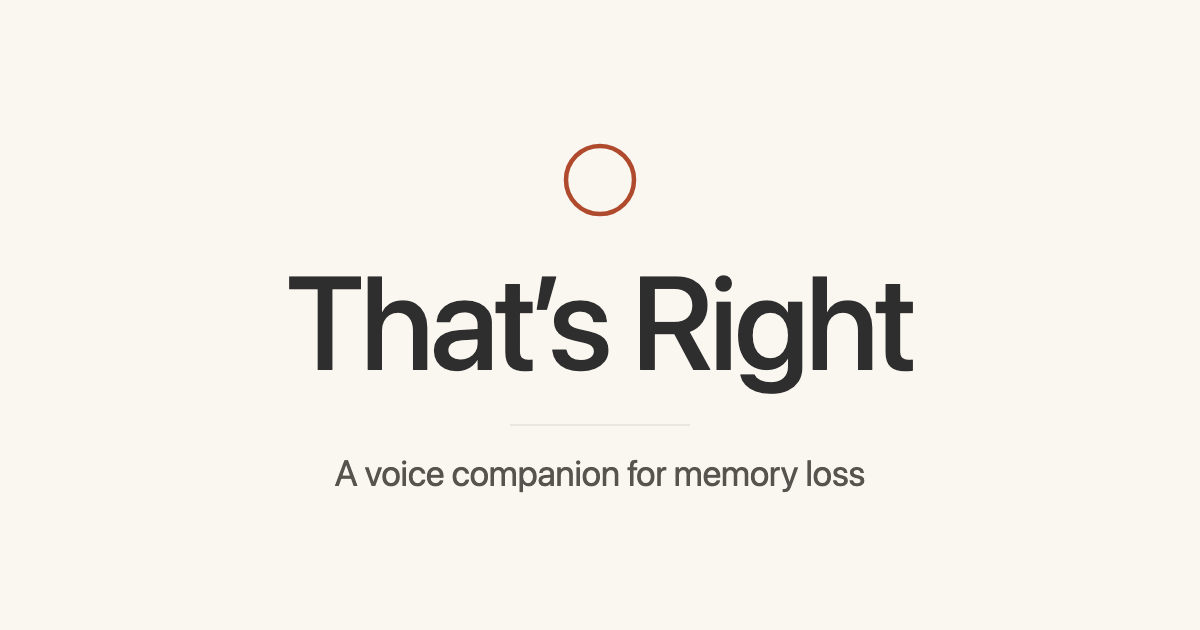
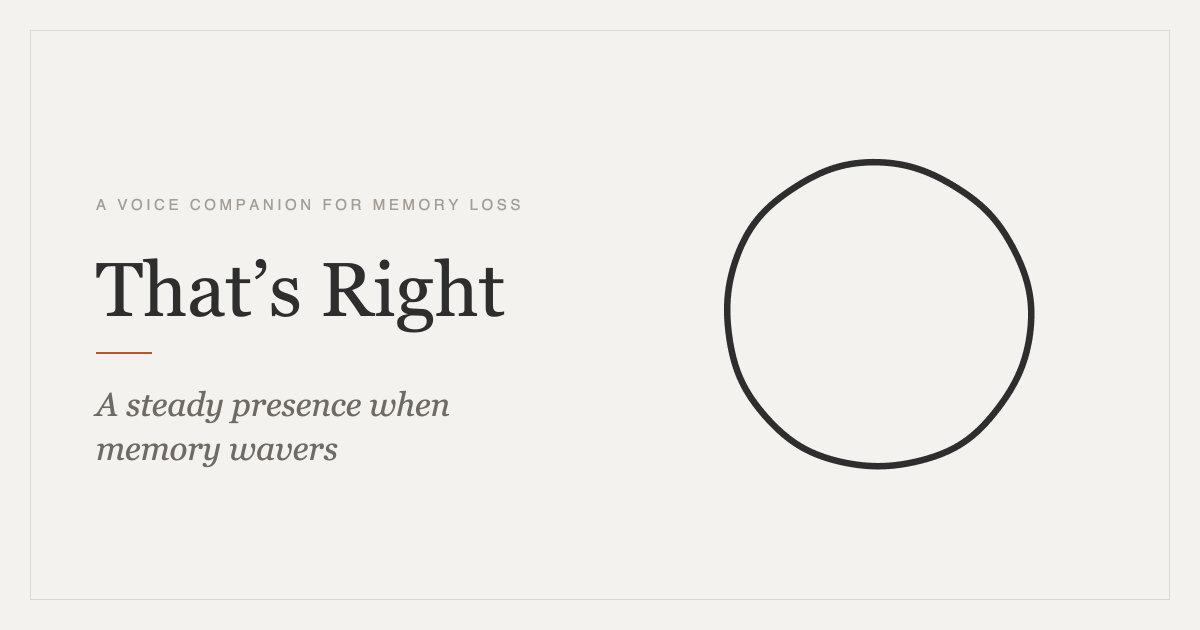
seo: swap OG card to cream variant + keep dark backup
OG/Twitter title and image:alt: "A voice companion for memory loss"
→ "A steady presence when memory wavers". The new line lands closer to
what the page itself sells (presence, steadiness) than a category label
and matches the new card's headline.

og.png: replace with the cream paper variant — eyebrow tagline above
the wordmark, accent rule, hero orb outline on the right. Matches the
site brand exactly so the share-card → landing-page transition feels
continuous. The previous card was a draft in the working tree from a
prior session, never shipped.

og-dark.png: NEW. Same composition on a charcoal background, no
eyebrow. Kept in the repo as a backup so it survives Downloads cleanup
and is one rename away if we ever want the dark card. Not referenced
by any HTML, just sits at root.

og.png URL bumped to ?v=2 in OG/Twitter image meta so Slack, iMessage,
Twitter and LinkedIn re-fetch the new image instead of serving their
cached preview of the old one.

TODO.md: mark the "verify Vercel deploy" SEO follow-up done (all five
static assets returned 200 on prod earlier this session) and note the
cream/dark variant convention.

diff --git a/index.html b/index.html
@@ -15,21 +15,21 @@
 <!-- Open Graph (Facebook / LinkedIn / iMessage / Slack share previews) -->
 <meta property="og:type" content="website">
 <meta property="og:site_name" content="That’s Right">
-<meta property="og:title" content="That’s Right — a voice companion for memory loss">
+<meta property="og:title" content="That’s Right — A steady presence when memory wavers">
 <meta property="og:description" content="A voice your parent can talk to anytime — one that knows their life, and tells you each evening how their day really went.">
 <meta property="og:url" content="https://www.thatsright.xyz/">
 <meta property="og:locale" content="en_US">
 <meta property="og:locale:alternate" content="fr_FR">
-<meta property="og:image" content="https://www.thatsright.xyz/og.png">
+<meta property="og:image" content="https://www.thatsright.xyz/og.png?v=2">
 <meta property="og:image:width" content="1200">
 <meta property="og:image:height" content="630">
-<meta property="og:image:alt" content="That’s Right — a voice companion for memory loss">
+<meta property="og:image:alt" content="That’s Right — A steady presence when memory wavers">
 
 <!-- Twitter / X -->
 <meta name="twitter:card" content="summary_large_image">
-<meta name="twitter:title" content="That’s Right — a voice companion for memory loss">
+<meta name="twitter:title" content="That’s Right — A steady presence when memory wavers">
 <meta name="twitter:description" content="A voice your parent can talk to anytime — one that knows their life, and tells you each evening how their day really went.">
-<meta name="twitter:image" content="https://www.thatsright.xyz/og.png">
+<meta name="twitter:image" content="https://www.thatsright.xyz/og.png?v=2">
 
 <!-- Structured data: how Google’s rich results + LLMs (Perplexity, ChatGPT, Claude) recognise this site. -->
 <script type="application/ld+json">

diff --git a/TODO.md b/TODO.md
@@ -20,8 +20,14 @@ Tracked here so they don't get lost across sessions.
 
 ## SEO follow-ups (post-deploy)
 
-- [ ] Push `bff0bde` to `origin/main`; verify Vercel deploys and
-      `https://www.thatsright.xyz/og.png` returns 200.
+- [x] ~~Push `bff0bde` to `origin/main`; verify Vercel deploys and
+      `https://www.thatsright.xyz/og.png` returns 200.~~ Done 2026-06-21.
+      All five static assets (og.png, sitemap.xml, robots.txt, llms.txt,
+      privacy) return 200 on prod. Homepage emits 3 JSON-LD blocks, OG +
+      Twitter cards, canonical, en_US/fr_FR alternate locale.
+- Note: `og.png` is the cream variant ("A steady presence when memory
+      wavers"); `og-dark.png` is the dark/inverted alternative kept in
+      the repo as backup. Swap by renaming if we ever want the dark card.
 - [ ] Validate with https://www.opengraph.xyz/ (share-card preview) and
       https://search.google.com/test/rich-results (JSON-LD).
 - [ ] Submit `https://www.thatsright.xyz/sitemap.xml` to Google Search Console